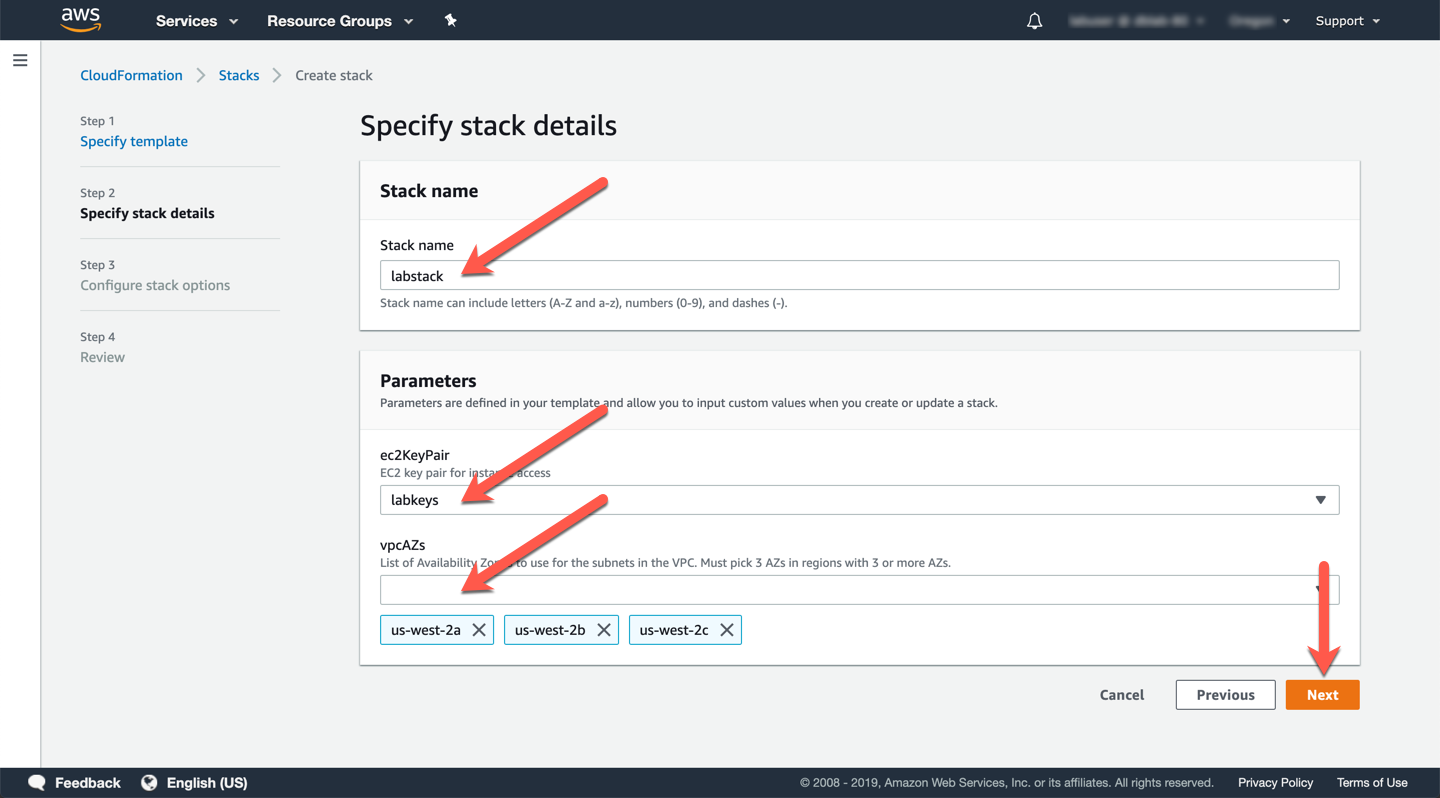
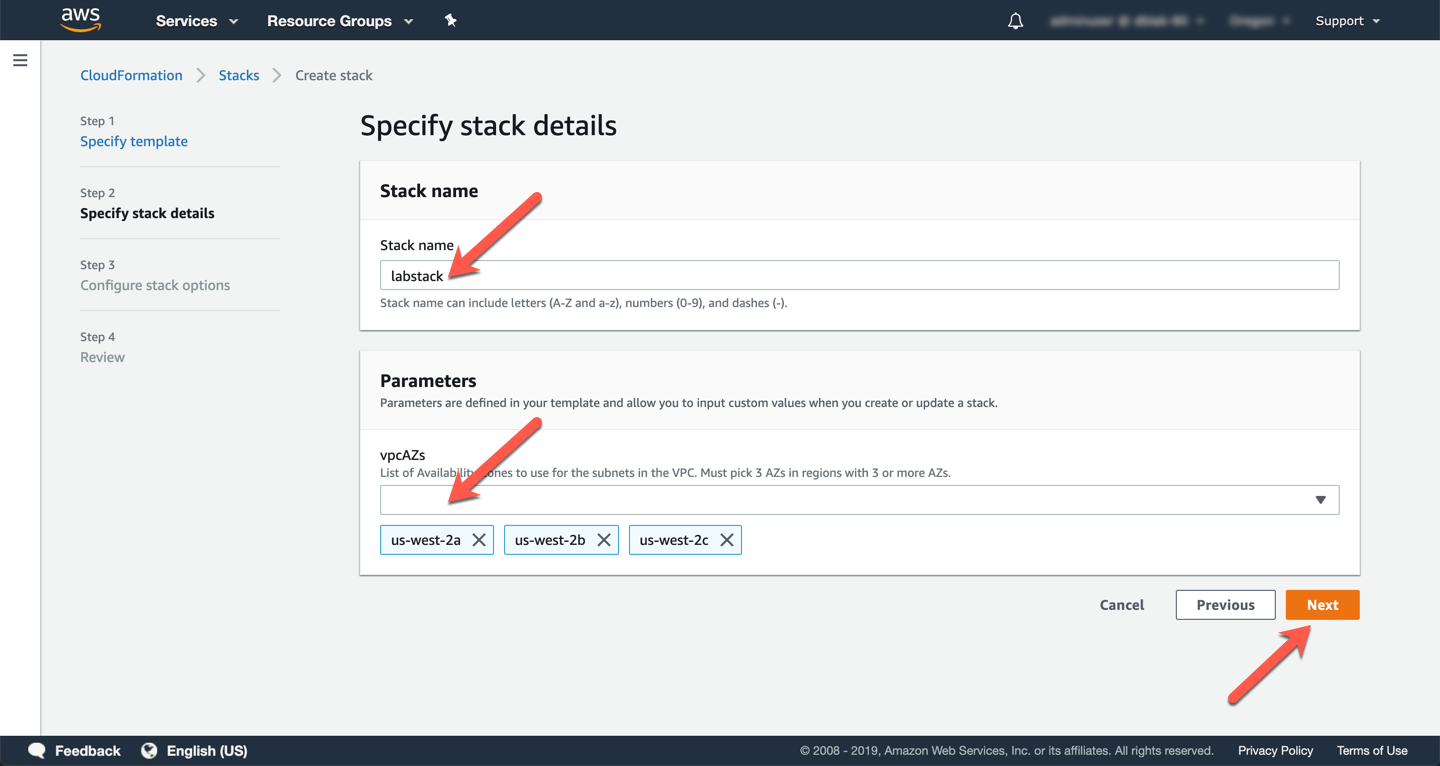
Prereq instructions with no SSH

diff --git a/docs/modules/prerequisites/index.md b/docs/modules/prerequisites/index.md
@@ -4,12 +4,11 @@ The following steps should be completed before getting started with any of the l
 
 This lab contains the following tasks:
 
-1. Signing in to the AWS Management Console and creating an EC2 key pair
+1. Signing in to the AWS Management Console
 2. Creating a lab environment using AWS CloudFormation
-3. Installing an SSH client (Windows Users)
 
 
-## 1. Signing in to the AWS Management Console and creating an EC2 Key Pair
+## 1. Signing in to the AWS Management Console
 
 If you are running these labs in a formal, instructional setting, please use the Console URL, and credentials provided to you to access and log into the AWS Management Console. Otherwise, please use your own credentials. You can access the console at: <a href="https://console.aws.amazon.com/" target="_blank">https://console.aws.amazon.com/</a> or through the Single Sign-On (SSO) mechanism provided by your organization.
 
@@ -19,21 +18,13 @@ If you are running these labs in a formal, instructional setting, please use the
 
 <span class="image">![AWS Management Console Region Selection](1-region-select.png?raw=true)</span>
 
-Open the **Key Pairs** section of the <a href="https://us-west-2.console.aws.amazon.com/ec2/v2/home?region=us-west-2#KeyPairs:sort=keyName" target="_blank">EC2 service console</a>.
-
-!!! warning "Region Check"
-    Ensure you are still working in the correct region, especially if you are following the links above to open the service console at the right screen.
-
-Click **Create Key Pair**.
-
-<span class="image">![EC2 Console - Create Key Pair](1-create-keypair.png?raw=true)</span>
-
-Give the key pair a recognizable name, such as `labkeys`, then click **Create** and download the file named `labkeys.pem` to your computer, save it in a memorable location, such as your desktop.  You will need this file later in the lab.
-
 
 ## 2. Creating a lab environment using AWS CloudFormation
 
 To simplify the getting started experience with the labs, we have created foundational templates for <a href="https://aws.amazon.com/cloudformation/" target="_blank">AWS CloudFormation</a> that provision the resources needed for the lab environment. These templates are designed to deploy a consistent networking infrastructure, and client-side experience of software packages and components used in the lab.
+
+!!! warning "Formal Event"
+    If you are running these labs in a formal instructional event, the lab environment may have been initialized on your behalf. If unsure, please verify with the event support staff.
 
 Please download the most appropriate CloudFormation template based on the labs you want to run:
 
@@ -60,7 +51,7 @@ Select the radio button named **Upload a template**, then **Choose file** and se
 
 <span class="image">![Upload Template](2-upload-template.png?raw=true)</span>
 
-In the field named **Stack Name**, enter the value `labstack`, for the **ec2KeyPair** parameter value input the name of the key pair you have created previously (`labkeys`) and then click **Next**. For the **vpcAZs** parameter select 3 availability zones (AZs) from the dropdown. If your desired region only supports 2 AZs, please select just the two AZs available.
+In the field named **Stack Name**, enter the value `labstack`. For the **vpcAZs** parameter select 3 availability zones (AZs) from the dropdown. If your desired region only supports 2 AZs, please select just the two AZs available. Click **Next**.
 
 <span class="image">![Configure Stack Options](2-stack-params.png?raw=true)</span>
 
@@ -79,41 +70,3 @@ The stack will take approximatively 20 minutes to provision, you can monitor the
 Once the status of the stack is `CREATE_COMPLETE`, click on the **Outputs** tab. The values here will be critical to the completion of the remainder of the lab.  Please take a moment to save these values somewhere that you will have easy access to them during the remainder of the lab. The names that appear in the **Key** column are referenced directly in the instructions in subsequent steps, using the parameter format: ==[outputKey]==
 
 <span class="image">![Stack Outputs](2-stack-outputs.png?raw=true)</span>
-
-
-## 3. Installing an SSH client (Windows Users)
-
-Windows users: please download **PuTTY** `putty.exe` and the **PuTTY Key Generator** `puttygen.exe` from the following links, if you do not already have a SSH client available.
-
-* <a href="https://the.earth.li/~sgtatham/putty/latest/w64/putty.exe" target="_blank">PuTTY</a>
-* <a href="https://the.earth.li/~sgtatham/putty/latest/w64/puttygen.exe" target="_blank">PuTTY Key Generator</a>
-
-Once you have downloaded the client software, open `puttygen.exe` and click on **Load**. Please make sure that the file filter is set to `All Files (*.*)` and then select the EC2 Key Pair created earlier `labkeys.pem`.
-
-<span class="image">![Convert SSH Keys Part 1](3-puttygen-load-open.png?raw=true)</span>
-
-Fill in the **Key passphrase** and **Confirm passphrase** fields with a password of your choice that will be used to encrypt your private key and then click **Save private key**.  Please use the same name `labkeys.ppk` as your new key name.
-
-<span class="image">![Convert SSH Keys Part 2](3-puttygen-key-save.png?raw=true)</span>
-
-Next, open `putty.exe` and enter into the **Host Name (or IP address)** field the value of your bastion host generated from the AWS CloudFormation template that you used to bootstrap the labs:
-
-```
-ubuntu@[bastionEndpoint]
-```
-
-<span class="image">![PuTTY Host Name](3-putty-host.png?raw=true)</span>
-
-Next, navigate within PuTTY to **Connection > SSH > Auth** and browse to the `labkeys.ppk` file that you created with the **PuTTY Key Generator** previously, and then click **Open**.
-
-<span class="image">![PuTTY Set Private Key](3-putty-set-key.png?raw=true)</span>
-
-Click **Open** at the bottom of the main PuTTY application window to establish the SSH connection. When prompted by the **PuTTY Security Alert**, click **Yes**.
-
-<span class="image">![PuTTY Security Alert](3-putty-warning.png?raw=true)</span>
-
-Next, enter the password that you configured when you created the `labkeys.ppk` private file previously.
-
-<span class="image">![PuTTY Key File Prompt](3-putty-pwd-prompt.png?raw=true)</span>
-
-You are now connected to your workstation EC2 instance using SSH. 
